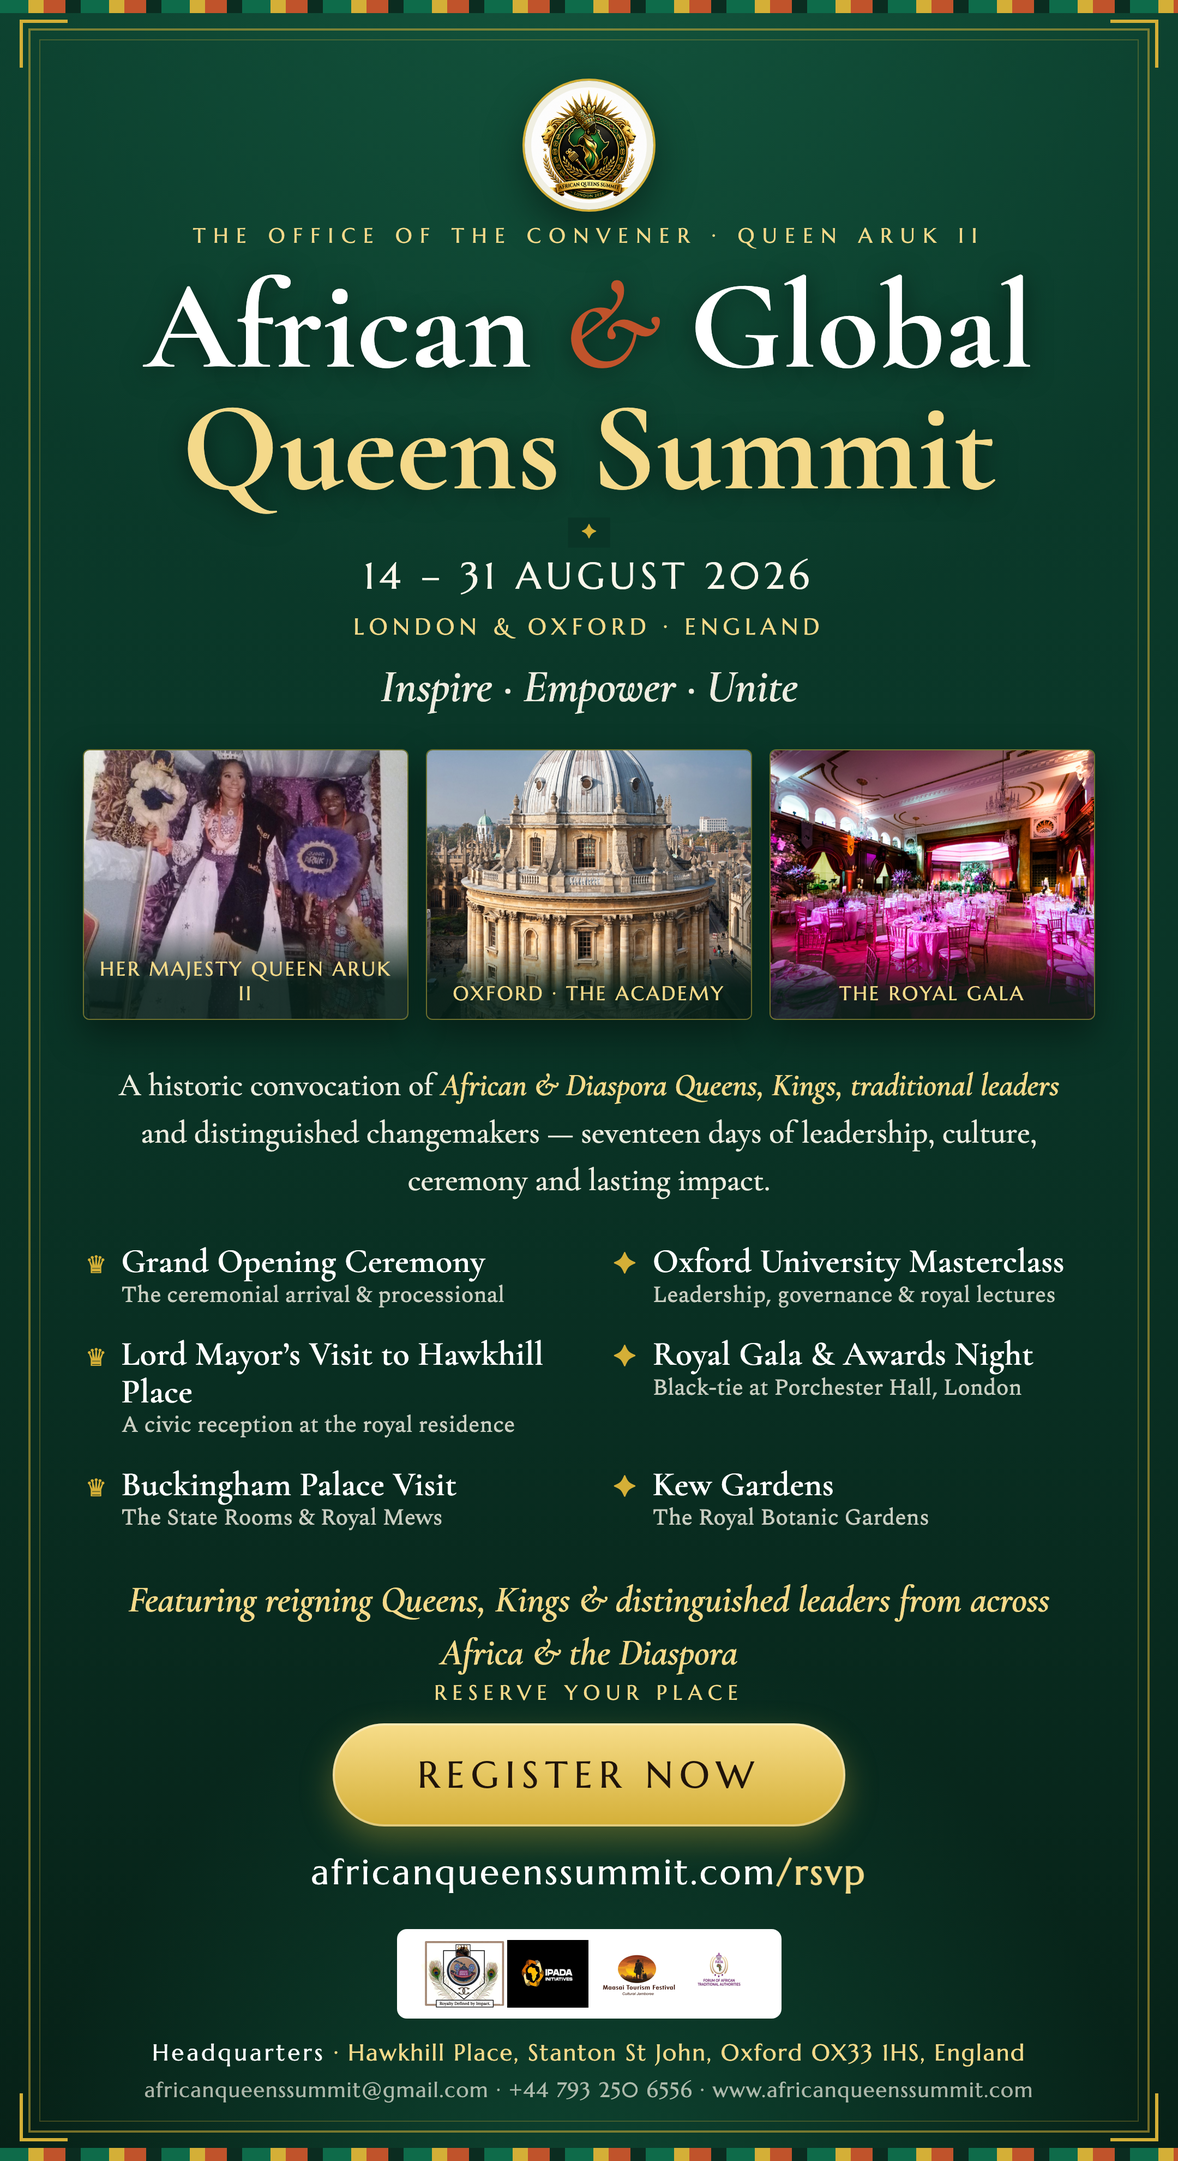
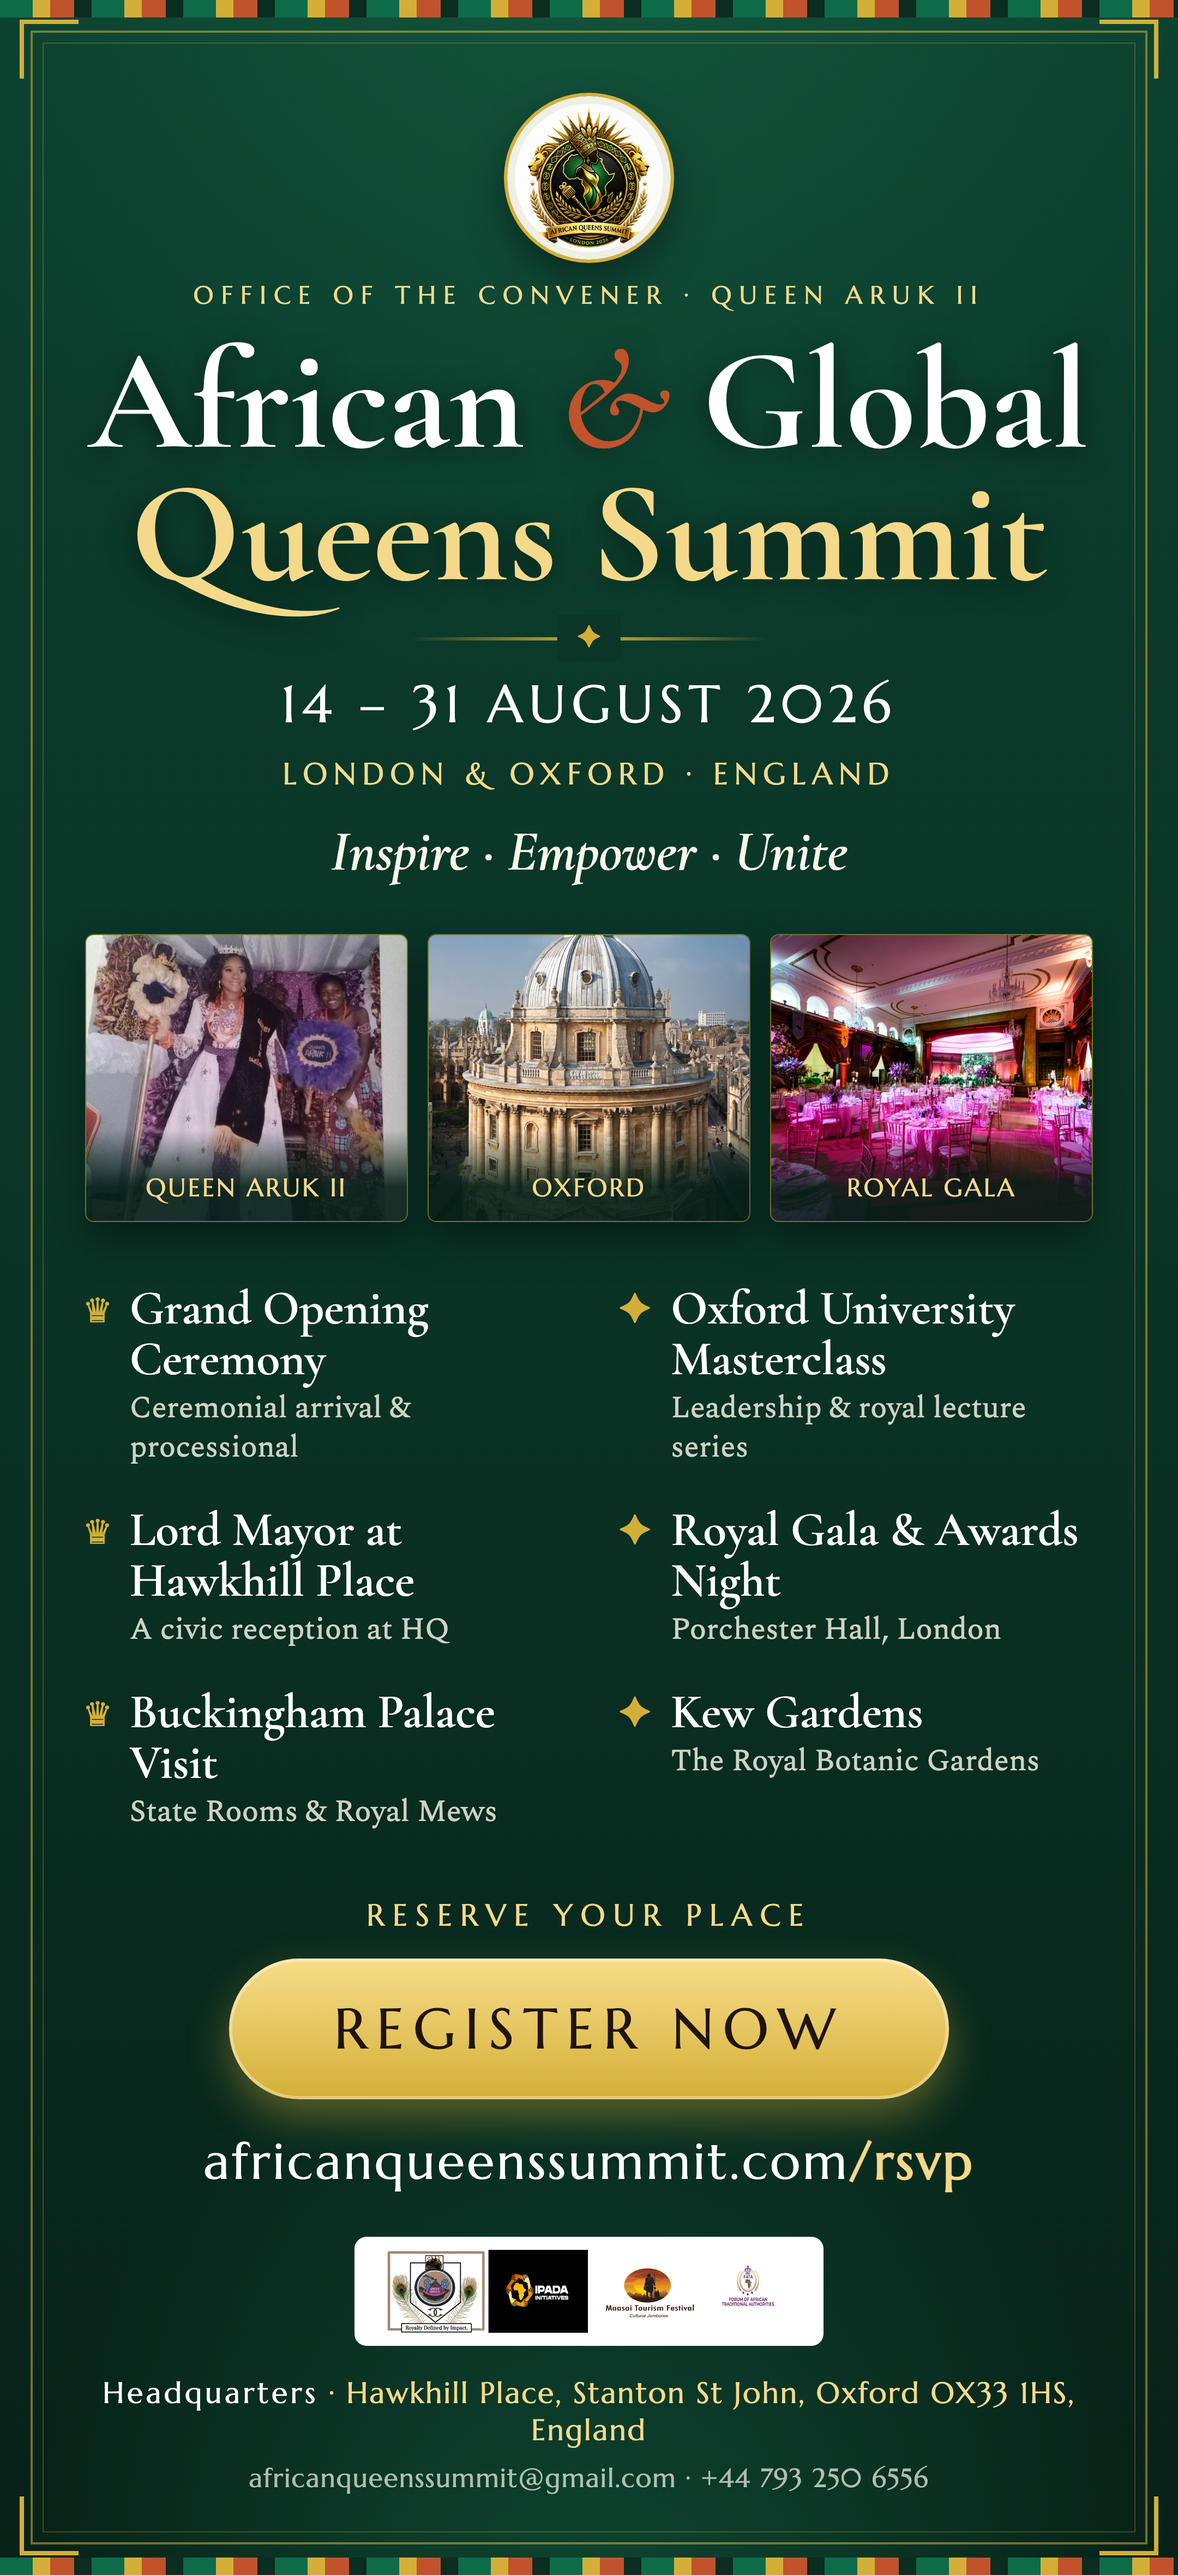
Flier page: make the whole flier tappable to register + publish bigger flier

Changed region(s): [[0.0, 0.0, 1.0, 1.0]]

diff --git a/public/flier/index.html b/public/flier/index.html
@@ -16,8 +16,11 @@
   *{ margin:0; padding:0; box-sizing:border-box; }
   body{ background:radial-gradient(120% 60% at 50% 0,#12503b,#0a2e22 60%,#071f18); min-height:100vh;
     color:#faf6ea; font-family:'Marcellus','Georgia',serif; text-align:center; padding:26px 16px 56px; }
+  a.flierwrap{ display:inline-block; text-decoration:none; cursor:pointer; }
   .flier{ max-width:700px; width:100%; height:auto; border-radius:12px;
     box-shadow:0 24px 70px rgba(0,0,0,.55); border:1px solid rgba(212,175,55,.4); }
+  .taphint{ display:block; max-width:700px; margin:0 auto 12px; font-size:15px; letter-spacing:.08em;
+    text-transform:uppercase; color:#f4d98a; }
   .btns{ margin:28px auto 0; display:flex; gap:14px; justify-content:center; flex-wrap:wrap; }
   a.btn{ display:inline-block; text-decoration:none; font-size:18px; letter-spacing:.10em; text-transform:uppercase;
     padding:17px 44px; border-radius:999px; }
@@ -28,7 +31,10 @@
 </style>
 </head>
 <body>
-  <img class="flier" src="/images/aqs-flier.png" alt="African & Global Queens Summit 2026 — 14–31 August 2026, London & Oxford, England">
+  <span class="taphint">▼ Tap the flier to register ▼</span>
+  <a class="flierwrap" href="/rsvp/" aria-label="Register for the African &amp; Global Queens Summit">
+    <img class="flier" src="/images/aqs-flier.png" alt="African & Global Queens Summit 2026 — 14–31 August 2026, London & Oxford, England">
+  </a>
   <div class="btns">
     <a class="btn reg" href="/rsvp/">Register Now</a>
     <a class="btn dl" href="/images/aqs-flier.png" download="African-Global-Queens-Summit-2026.png">Download Flier</a>
